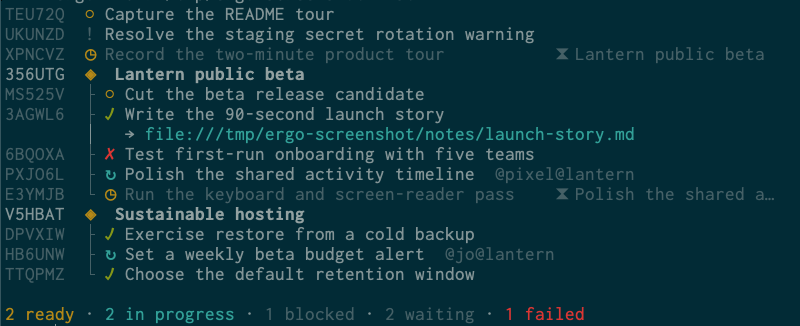
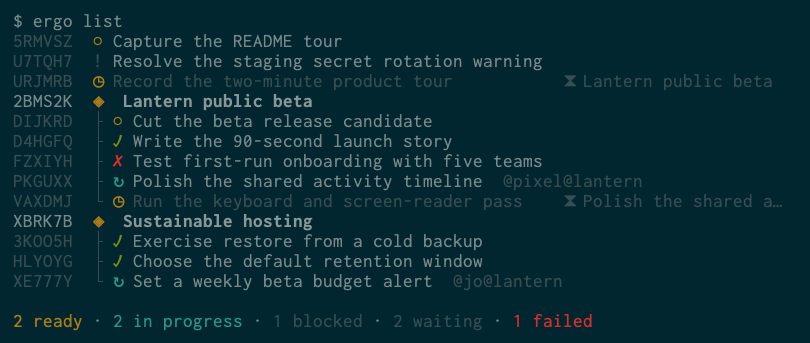
Refresh README guidance and screenshots
- Replace terminal and VS Code images with current sample backlog captures.
- Use release ZIPs for Windows while WinGet approval remains pending.
- State the Go requirement and explain VS Code CLI setup and read-only browsing.
- Clarify task states and the journal’s work history.

diff --git a/README.md b/README.md
@@ -11,7 +11,7 @@ The `ergo` CLI is a way for coding agents to keep implementation plans, progress
 
 Have your agent write out its plans using `ergo` instead of Markdown files or an internal plan tool. You can opt to track the backlog in git or keep it local.
 
-- Tasks have state (like "todo" or "doing" or "done")
+- Tasks have a state, such as draft, todo, doing, or done.
 - Tasks can depend on one another, so the “Build the signup endpoint” task can wait for the “Create the database tables” task.
 - Tasks can be grouped into epics.
 
@@ -27,18 +27,12 @@ macOS with Homebrew:
 brew install sandover/tap/ergo
 ```
 
-Windows with WinGet:
-
-```powershell
-winget install --id Sandover.Ergo --exact
-```
-
-If WinGet does not find Ergo yet, download the Windows archive from the
+On Windows, download the Windows ZIP for your architecture from the
 [latest GitHub release](https://github.com/sandover/ergo/releases/latest),
 extract `ergo.exe`, and add its directory to your user `PATH`. Open a new
 terminal after changing `PATH`.
 
-Any supported platform with Go:
+macOS, Linux, or Windows with Go 1.24 or later:
 
 ```sh
 go install github.com/sandover/ergo/v6/cmd/ergo@latest
@@ -74,14 +68,22 @@ In any new session, just tell your agent to read the Ergo backlog and continue t
 ## View in VS Code
 
 Install the [Ergo Backlog](https://marketplace.visualstudio.com/items?itemName=sandover.ergo-backlog)
-extension and open `.ergo/backlog.jsonl` to browse tasks and their details.
+extension alongside the Ergo CLI, then open `.ergo/backlog.jsonl` to browse
+tasks and their details. Search by title or ID, filter for ready work, and
+click a task ID to read its details. The extension is read-only; agents change
+the backlog through the CLI.
+
+You can also run **Ergo: Backlog** from the Command Palette to find a task.
+
+For remote, WSL, SSH, or development-container windows, install Ergo in that
+environment. See the [extension guide](editors/vscode/README.md) for setup.
 
 ![An Ergo backlog in VS Code](docs/img/ergo-vscode-backlog.png)
 
 ## Your backlog stays with your code
 
 Ergo is a small command-line tool with no database or background service to
-manage. It stores the backlog in `.ergo/backlog.jsonl` and task history,
+manage. It stores the backlog in `.ergo/backlog.jsonl` and work history,
 including notes and results, in `.ergo/journal.jsonl`. Track these plain-text
 files in Git, or add them to `.gitignore` for local use.
 
